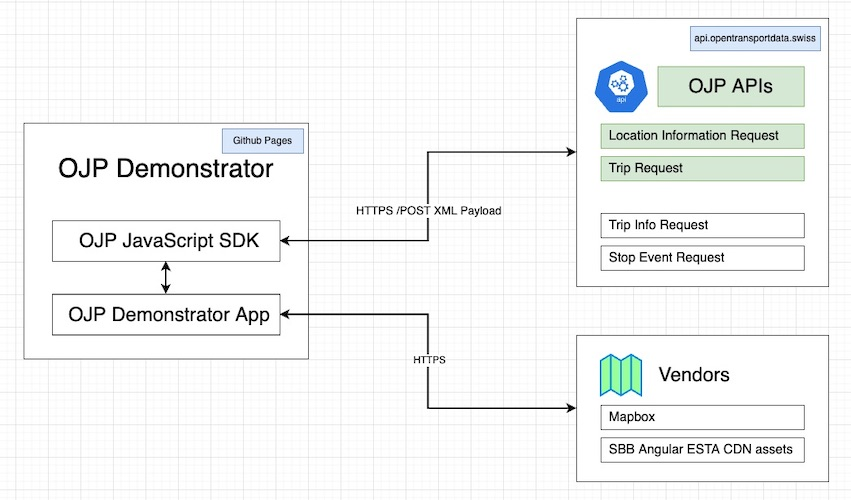
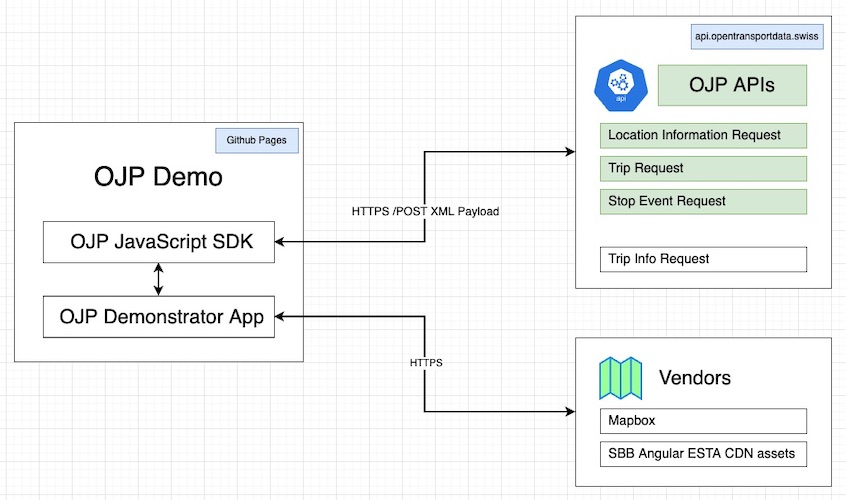
Updates documentation

Changed region(s): [[0.0, 0.24, 0.9835, 0.99], [0.3995, 0.03, 0.9835, 0.6]]

diff --git a/docs/project_structure.md b/docs/project_structure.md
@@ -5,21 +5,20 @@
 ```
 ├── app
 
+│   ├── config
+│   │   └── app-config.ts ·····························| App config (stages, map app layers)
+
 │   ├── journey ·······································| 
 │   │   ├── [+] journey-result-row ····················| <journey-result-row> UI component
 │   │   │   └── [+] result-trip-leg ···················|    <result-trip-leg> UI component
-│   │   └── [+] journey-results ·······················| <journey-results> UI component
+│   │   ├── [+] journey-results ·······················| <journey-results> UI component
+        └── [+] journey-search ························| Journeys `SbbTab` UI component
 
 │   ├── map
-│   │   ├── app-layers ································| Map POIs sub-classes of `LocationMapAppLayer`
-│   │   │   ├── [+] address ···························|    ├── `AddressAppLayer` - Address POI layer
-│   │   │   ├── poi
-│   │   │   │   ├── [+] bicycle-rental ················|    ├── `PoiBicycleRentalLayer` Shared Vehicle POI 
-│   │   │   │   └── [+] park-ride ·····················|    ├── `PoiParkRideLayer` P&R POI
-│   │   │   ├── [+] stops ·····························|    └── `StopsAppLayer - Public Transport POI
-│   │   │   ├── location-map-app-layer.ts ·············| `LocationMapAppLayer` - POI layer base class
-│   │   │   ├── map-app-layer.interface.ts ············| `MapAppLayer` - POI layer interface definition
-│   │   │   └── map-poi-type-enum.ts ··················| `MapPoiTypeEnum`, `MapPoiPropertiesEnum` types
+│   │   ├── app-map-layer  ····························| 
+│   │   │   ├──map-layers-def/*/*.json·················| Mapbox Map Layer definitions
+│   │   │   ├── app-map-layer.ts·······················| `AppMapLayer` - POI layer base class
+│   │   │   └── map-layers-def.ts······················| Application map layers definitions
 │   │   ├── controllers ·······························| 
 │   │   │   ├── [+] map-layers-def ····················| Mapbox layer definitions for `TripRenderController`
 │   │   │   └── trip-render-controller.ts ·············| Controller responsible for trips rendering
@@ -28,7 +27,6 @@
 │   │   │   └── map-layers-legend-control.ts ··········| Map UI control with map layers visibility
 │   │   ├── helpers
 │   │   │   └── map.helpers.ts ························| Map static helpers (coords, bounds, etc)
-
 │   │   ├── map.component.html ························| <app-map> UI component
 │   │   ├── map.component.scss ························| "         "
 │   │   └── map.component.ts ··························| "         "
@@ -37,7 +35,7 @@
 │   │   ├── [+] debug-xml-popover ·····················| <debug-xml-popover> UI component (modal)
 │   │   ├── [+] input-xml-popover ·····················| <input-xml-popover> UI component (modal)
 │   │   ├── [+] journey-point-input ···················| <journey-point-input> UI component (autocomplete)
-│   │   ├── [+] trip-mot-type ·························| <trip-mot-type> UI component
+│   │   ├── [+] trip-mode-type ························| <trip-mode-type> UI component
 
 │   │   ├── search-form.component.html ················| <app-search-form> UI component
 │   │   ├── search-form.component.scss ················| <app-search-form> UI component
@@ -49,6 +47,18 @@
 │   │       ├── map.service.ts ························| Angular service for map actions between UI components
 │   │       └── user-trip.service.ts ··················| Angular service for journey state between UI components
 
+│   ├── station-board
+│   │   ├── input
+│   │   │   └── [+] station-board-input ···············| <station-board-input> UI component
+│   │   ├── map
+│   │   │   ├── [+] station-board-map.* ···············| <station-board-map> UI component
+│   │   │   └── [+] stop-event-service-renderer ·······| Map class for rendering the selected service polyline
+│   │   ├── result
+│   │   │   └── [+] station-board-result ··············| <station-board-result> UI component
+│   │   ├── search
+│   │   │   └── [+] station-board-search ··············| <station-board-search> UI component
+│   │   └── [+] station-board ·························| Station Board `SbbTab` UI component
+
 │   ├── app.component.html ····························| <app-root> App main UI component
 │   ├── app.component.scss ····························| "          "
 │   ├── app.component.spec.ts ·························| "          "
@@ -57,6 +67,7 @@
 
 ├── assets
 │   ├── [+] map-icons ·································| Map marker pin icons (A, B, Via)
+│   ├── [+] map-style-icons····························| Map custom POIs icons
 │   ├── [+] pictograms ································| Trip leg pictograms (rail, bus, walk, sharing)
 │   └── opentransportdata.swiss.header-icons.svg ······| Header brand icon
 
@@ -76,7 +87,6 @@
 ```
 ojp-sdk ···············································| ./src/app/shared/ojp-sdk
     ├── config
-    │   ├── config.ts ·································| Config for OJP API stages: PROD, TEST, TEST LA
     │   └── map-colors.ts ·····························| Config for polyline and label trip colors
 
     ├── helpers
@@ -106,6 +116,9 @@ ojp-sdk ····································
     │   ├── location-information
     │   │   ├── location-information-request-params . ·| OJP `LocationInformationRequest` params builder
     │   │   └── location-information-request.ts ·······| OJP `LocationInformationRequest` class based on `OJPBaseRequest`
+    │   ├── stop-event-request
+    │   │   ├── stop-event-request-params.ts ··········| OJP `StopEvent` params builder
+    │   │   └── stop-event-request.ts ·················| OJP `StopEvent` class based on `OJPBaseRequest`
     │   ├── trips-request
     │   │   ├── trips-request-params.ts ···············| OJP `TripRequest` params builder
     │   │   └── trips-request.ts ······················| OJP `TripRequest` class based on `OJPBaseRequest`
@@ -115,6 +128,9 @@ ojp-sdk ····································
 
     ├── shared
     │   └── duration.ts ·······························| OJP `Duration` XML node model
+
+    │   ├── stop-event 
+    │   │   └── stop-event.ts ·························| OJP `StopEvent` XML node model
 
     ├── trip
     │   ├── leg
@@ -151,4 +167,5 @@ See also
 ----
 
 CHANGELOG
+- Oct 2022 - updated with StopEvent
 - Feb 2022 - created this document

diff --git a/docs/URLs.md b/docs/URLs.md
@@ -13,7 +13,8 @@ OJP-Demo URL: https://opentdatach.github.io/ojp-demo-app/
 |from| `8503000` for Zürich HB or `47.378173,8.540264` for same location as coordinates.|[DiDok](https://opentransportdata.swiss/de/dataset/didok) id or [Latitude,Longitude](https://developers.google.com/maps/documentation/javascript/reference/coordinates) coordinates. |
 |to|see `from`| |
 |via| `47.044250,8.308174;47.163056,8.687139` | List of [Latitude,Longitude](https://developers.google.com/maps/documentation/javascript/reference/coordinates) coordinates separated by semi-colon `;`. |
-|mot_types | `default;walk` | List of MOT types: `default`, `walk`, `self-drive-car` separated by semi-colon `;`. Number of MOT types is equal with number of via parameters + 1 . If missing it will use `default`, meaning that no `ItModesToCover` filter will be used for the [OJPTripRequest](https://opentransportdata.swiss/de/cookbook/ojptriprequest/) calls. |
+| mode_types | `monomodal` | Mono-, multi- modal journey type switcher. List of mode types: `monomodal`, `mode_at_start`, `mode_at_end`, `mode_at_start_end`.  Multiple values (journeys with via points) are separated by semi-colon `;`. Number of the values is equal with number of via parameters + 1 |
+| transport_modes | `public_transport` | The MOT used, list of possible values": `public_transport`, `walking` `cycle`, `car_self_driving`, `bicycle_rental`, `escooter_rental`, `car_sharing`. All values, except `public_transport` will set `ItModesToCover` filter in the [OJPTripRequest](https://opentransportdata.swiss/de/cookbook/ojptriprequest/) calls. Multiple values (joruneys with via points) are separated by semi-colon `;`. Number of the values is equal with number of via parameters + 1 |
 |trip_datetime| Trip datetime in `yyyy-MM-dd HH:mm` format | `2022-08-01 10:00` |
 |stage| `prod` or `test` | To specify the OJP API backend. |
 |do_search| `false` or `true` | If `true` the search will be performed after the endpoints information is init-ed. Default is `false`. |
@@ -21,12 +22,11 @@ OJP-Demo URL: https://opentdatach.github.io/ojp-demo-app/
 ## Examples
 
 - [Bern to Zürich](https://opentdatach.github.io/ojp-demo-app/) - the app will prefill the from/to with Bern/Zürich endpoints and use the current date / time + PROD stage. No `ItModesToCover` will be used.
-- [Bern to Rütli for Aug.1 with stop in Luzern](https://opentdatach.github.io/ojp-demo-app/search?from=46.941621%2C7.462849&to=8508471&via=47.050180%2C8.310180&mot_types=default%3Bdefault&trip_datetime=2022-08-01+10%3A00&stage=prod) - the app will prefill the from/to and via points and set the datetime to 1st of August.
-- [Croy-Romainmôtier to Glis](https://opentdatach.github.io/ojp-demo-app/search?from=46.673066%2C6.462309&to=46.311076%2C7.977560&mot_types=default&trip_datetime=2022-07-25+17%3A45&stage=test) - use `TEST` stage to demo the `demandAndResponseBus` in the `BusSubmode` TripRequest response. The journey takes place in a Sunday evening.
+- [Bern to Rütli for Aug.1 with stop in Luzern](https://opentdatach.github.io/ojp-demo-app/search?from=46.941621,7.462849&to=8508471&via=47.050180,8.310180&mode_types=monomodal;monomodal&transport_modes=public_transport;public_transport&trip_datetime=2022-08-01%2010:00&stage=prod) - the app will prefill the from/to and via points and set the datetime to 1st of August.
+- [Croy-Romainmôtier to Glis](https://opentdatach.github.io/ojp-demo-app/search?from=46.673066%2C6.462309&to=46.311076%2C7.977560&&mode_types=monomodal&trip_datetime=2022-07-25+17%3A45&stage=test) - use `TEST` stage to demo the `demandAndResponseBus` in the `BusSubmode` TripRequest response. The journey takes place in a Sunday evening.
 - [Meiringen demandAndResponseBus](https://opentdatach.github.io/ojp-demo-app/search?from=46.691000%2C8.223430&to=46.726650%2C8.222980&stage=test) - use `TEST` stage to demo the `demandAndResponseBus` mode in Meiringen area.
-- [Walk trip in Bern](https://opentdatach.github.io/ojp-demo-app/search?from=46.933946%2C7.440027&to=46.947515%2C7.466062&via=46.936732%2C7.447386&mot_types=walk%3Bdefault&trip_datetime=2022-07-06+10%3A00&stage=test) - use walking MOT type that will use `walk` for `ItModesToCover`.
-- [Self-drive car ride](https://opentdatach.github.io/ojp-demo-app/search?from=46.882350%2C7.470718&to=46.964427%2C7.432219&via=46.948819%2C7.439128&mot_types=self-drive-car%3Bdefault&trip_datetime=2022-07-06+10%3A00&stage=test) - use walking MOT type that will use `self-drive-car` for `ItModesToCover`.
-- [Shared mobility(cycle) ride](https://opentdatach.github.io/ojp-demo-app/search?from=46.743506%2C7.590045&to=46.745899%2C7.637482&via=46.743386%2C7.595724&mot_types=walk%3Bshared-mobility&trip_datetime=2022-07-06+10%3A00&stage=test) - use walking MOT type that will use `cycle` for `ItModesToCover` in Thun (Donkey Republic provider).
+- [Multi-modal trip with shared bicycle at start](https://opentdatach.github.io/ojp-demo-app/search?from=46.925047,7.417903&to=47.056009,7.630737&mode_types=mode_at_start&transport_modes=bicycle_rental&trip_datetime=2022-10-09%2023:28&stage=prod) - use `mode_at_start` mode_type and `cycle` MOT type for `ItModesToCover`.
+- [Self-drive car ride](https://opentdatach.github.io/ojp-demo-app/search?from=46.944397,7.414940&to=46.934726,7.497647&mode_types=monomodal&transport_modes=car_self_driving) - use `monomodal` mode type and `self-drive-car` MOT type for `ItModesToCover`.
 
 # 2. Station Board
 
@@ -39,3 +39,11 @@ OJP-Demo URL: https://opentdatach.github.io/ojp-demo-app/
 ## Examples
 
 - [Zürich HB](https://opentdatach.github.io/ojp-demo-app/board?stop_id=8503000) departures.
+
+----
+
+CHANGELOG
+- Oct 2022 - updated mono-, multi- modal journey examples
+- Sep 2022 - adds Station Board
+- Mar 2022 - adds `do_search` param
+- Jul 2021 - created this document

diff --git a/docs/config.md b/docs/config.md
@@ -21,40 +21,44 @@
 - path: [./tsconfig.json](./../tsconfig.json)
 - TypeScript related settings
 
-## OJP SDK Settings
+## OJP Demo App Settings
 
 `config.ts`
 
-- path: [./src/app/shared/ojp-sdk/config/config.ts](./../src/app/shared/ojp-sdk/config/config.ts)
+- path: [./src/app/config/app-config.ts](./../src/app/config/app-config.ts)
 - customize backend stages for the OJP APIs
 - customize endpoints, authorization keys used
-
-## OJP Demo App Settings
+- config of the map layers
 
 `map-colors.ts`
 
 - path: [./src/app/shared/ojp-sdk/config/map-colors.ts](./../src/app/shared/ojp-sdk/config/map-colors.ts)
 - customize the colors used for rendering the result leg colors and map polyline colors
 
-`./src/app/map/app-layers/**/*.ts`
-
-- customize Mapbox layer definitions in `./**/map-layers-def/*.json` files
-- customize application map layers in subclasses of `LocationMapAppLayer`
-
-Example for [AddressAppLayer](./../src/app/map/app-layers/address/address-app-layer.ts)
+Example for map layers config
 
 ```
-export class AddressAppLayer extends LocationMapAppLayer implements MapAppLayer {
-  public static layerKey = 'address'
-  public static geoRestrictionType: OJP.GeoRestrictionType = 'address'
-  public static minZoomLevel = 17.0
-  public static sourceId = 'ojp-address'
+'stops': {
+  LIR_Restriction_Type: 'stop',
+  minZoom: 13,
+  layer_ids: [
+    'stops-circle',
+    'stops-label',
+  ],
+  click_layer_ids: 'SAME_AS_LAYER_IDS',
+},
 ```
 
-- the `OJP.GeoRestrictionType` with value `address` is used to filter the LocationInformationRequest results
-- the map layer is available from zoom level 17.0 and above
+- this layer used to show public transport stops
+- `LIR_Restriction_Type`: what value to be used for `ojp:Restrictions/ojp:Type` inside `LocationInformationRequest` requests
+- `minZoom`: above which map zoom level this map layer is displayed
+- `layer_ids`: which map layer ids will be used for this app layer, in this case there are 2 layers, one for the map points (circles) and one of the labels (text) of the stations
+  - configuration of the layers is in [./src/app/map/app-map-layer/](../src/app/map/app-map-layer)
+  - the Mapbox layer definitions are in [./map-layers-def/**/*.json](../src/app/map/app-map-layer/map-layers-def/**/*.json) files
+- `click_layer_ids`: which layers have click handlers showing a popup
 
 ----
 
 CHANGELOG
+- Oct 2022 - updated config
 - Feb 2022 - created this document

diff --git a/docs/features.md b/docs/features.md
@@ -18,31 +18,28 @@
 
 ![image](./img/features/map_drag_marker.jpg)
 
-## Simple Journey
+## Mono-modal Journey
 
-- only the `From` and a `To` endpoint are used.
-- there is no `Via`(intermediary) point
+- by default `Public Transport` is used
+
+![](./img//features/journey_search_monomodal.jpg)
+
+- for other MOTs (Walking, Own Cycle, etc) the `ItModesToCover` will be changed accordingly, i.e. 
+`<ojp:ItModesToCover>walk</ojp:ItModesToCover>` for 
+
 - the response is will contain `ojp:TripResult/ojp:Trip` nodes which are composed of individual, mono-modal `ojp:TripLeg` entries. 
 
 ![image](./img/features/OJPTripRequest-Search-Map_v2.jpg)
 
 - see [request](./request_examples/Gurten_Zuerich-simple-01-request.xml) and [response](./request_examples/Gurten_Zuerich-simple-02-response.xml) XMLs.
 
-## Multi-steps Journey
+## Multi-modal Journey
 
-- along with `From` and `To` we can use one or multiple `Via` points. They can be added for now only via the map (see above)
-- the mode of transport between the points can be enforced:
-    - `Default` will let OJP to decide the best MOT
-    - `Walking` will consider only `ojp:Trip` nodes that have a `ojp:TripLeg` with `walk` mode.
-    - `Self-Driving Car`, `Shared Mobility` will consider only `ojp:Trip` nodes that have a `ojp:TripLeg` with `ojp:Service/ojp:IndividualMode = self-drive-car` or `cycle`.
+- the user can choose custom mode at start, end or both start/end part of the journey.
 
-![image](./img/features/OJPTripRequest-Search-Car-Sharing-Via-Map_v1.jpg)
+![](./img//features/journey_search_multimodal.jpg)
 
-- there are 2 `OJPTripRequest` done after each-other (number of requests = number of via points + 1)
-- first request will keep only the `TripLeg` that satisfy the MOT condition
-- for the 2nd `OJPTripRequest` the prev request `endDateTime` will be used as a start time.
-- the `TripLeg` nodes from the prev requests are prepended to the `TripLeg` nodes of the last `OJPTripRequest`. 
-- the final journey stats (duration, start, end datetimes) are updated
+- i.e. a `Mode at Start` with `Bicyle Sharing` MOT will use custom mode for the first part of the journey and the rest will be done with public transport
 
 ## Inspect OJP request/response XML
 
@@ -59,4 +56,5 @@ The user can upload a custom TripRequest request and response XML.
 ----
 
 CHANGELOG
+- Oct 2022 - updated with mono-, multi- modal journeys
 - Feb 2022 - created this document

diff --git a/docs/app_components.md b/docs/app_components.md
@@ -1,8 +1,14 @@
 # OJP Demo Components
 
+The application has 2 separate views using [SbbTab](https://angular.app.sbb.ch/angular/components/tabs/overview) component to switch between them
+- Journey Search - available under `./search` path
+- Station Board - available under `./board` path
+
+## Journey Search Component
+
 ![OJP_Demo_Components.jpg](./img/OJP_Demo_Components.jpg)
 
-- [\<app-root\>](./../src/app/app.component.ts) - entry point container
+- [\<journey-search\>](./../src/app/journey/journey-search) - entry point container
     - [\<app-search-form\>](./../src/app/search-form/search-form.component.ts) - search form (left-side) - Bootstrap grid `col-4`
     - [\<journey-results\>](./../src/app/journey/journey-results/journey-results.component.ts) - journeys results (under search results, hidden by default)
     - [\<app-map\>](./../src/app/map/map.component.ts) - map component (right-side) - Bootstrap grid `col-8`
@@ -11,7 +17,7 @@
 
 - [\<app-search-form\>](./../src/app/search-form/search-form.component.ts) - search form with [SbbAccordionModule](https://angular-v12.app.sbb.ch/business/components/accordion) as a colapsible wrapper
     - [\<journey-point-input\>](./../src/app/search-form/journey-point-input/) + [SbbAutocompleteModule](https://angular-v12.app.sbb.ch/business/components/autocomplete) - for the journey search fields (from, to, via) with autcomple (type-ahead) support
-    - [\<trip-mot-type\>](./../src/app/search-form/trip-mot-type/) - for rendering the mode of transport (MOT) selector of the journey legs
+    - [\<trip-mode-type\>](./../src/app/search-form/trip-mode-type) - for rendering the transport mode between endpoints
     - [\<debug-xml-popover>](./../src/app/search-form/debug-xml-popover/) + [SbbDialogModule](https://angular-v12.app.sbb.ch/business/components/dialog) - to display modal windows showing request and response XML from OJP APIs
     - [\<input-xml-popover>](./../src/app/search-form/input-xml-popover/) + [SbbDialogModule](https://angular-v12.app.sbb.ch/business/components/dialog) - to debug custom [OJPTripRequest](https://opentransportdata.swiss/en/cookbook/ojptriprequest/) request and responses
 
@@ -28,4 +34,5 @@ See also
 ----
 
 CHANGELOG
+- Oct 2022 - updated with StopEvent
 - Feb 2022 - created this document

diff --git a/docs/architecture.md b/docs/architecture.md
@@ -8,7 +8,7 @@ OJP Demo is a [TypeScript](https://www.typescriptlang.org/) web application, com
   - [xpath](https://github.com/goto100/xpath) - DOM3 XPath 1.0 implemention for JavaScript
 - OJP Demo App - this component is using [Angular](https://angular.io/) web-framework components and services for UI rendering. Following additional libraries are used: 
   - [Mapbox GL JS](https://docs.mapbox.com/mapbox-gl-js/api/) - client-side JavaScript library for building web maps
-  - [SBB Angular v.12](https://angular-v12.app.sbb.ch/) - OSS component library from SBB for UI elements like autocomplete, date pickers, etc.
+  - [SBB Angular v.14](https://angular.app.sbb.ch/) - OSS component library from SBB for UI elements like autocomplete, date pickers, etc.
   - [Bootstrap](https://getbootstrap.com/) - OSS web framework for final HTML / CSS appearance
 
 ![image](./img/OJP_Demo_OSS_Components.jpg)
@@ -19,4 +19,5 @@ See also
 ----
 
 CHANGELOG
+- Oct 2022 - updated with StopEvent
 - Feb 2022 - created this document
